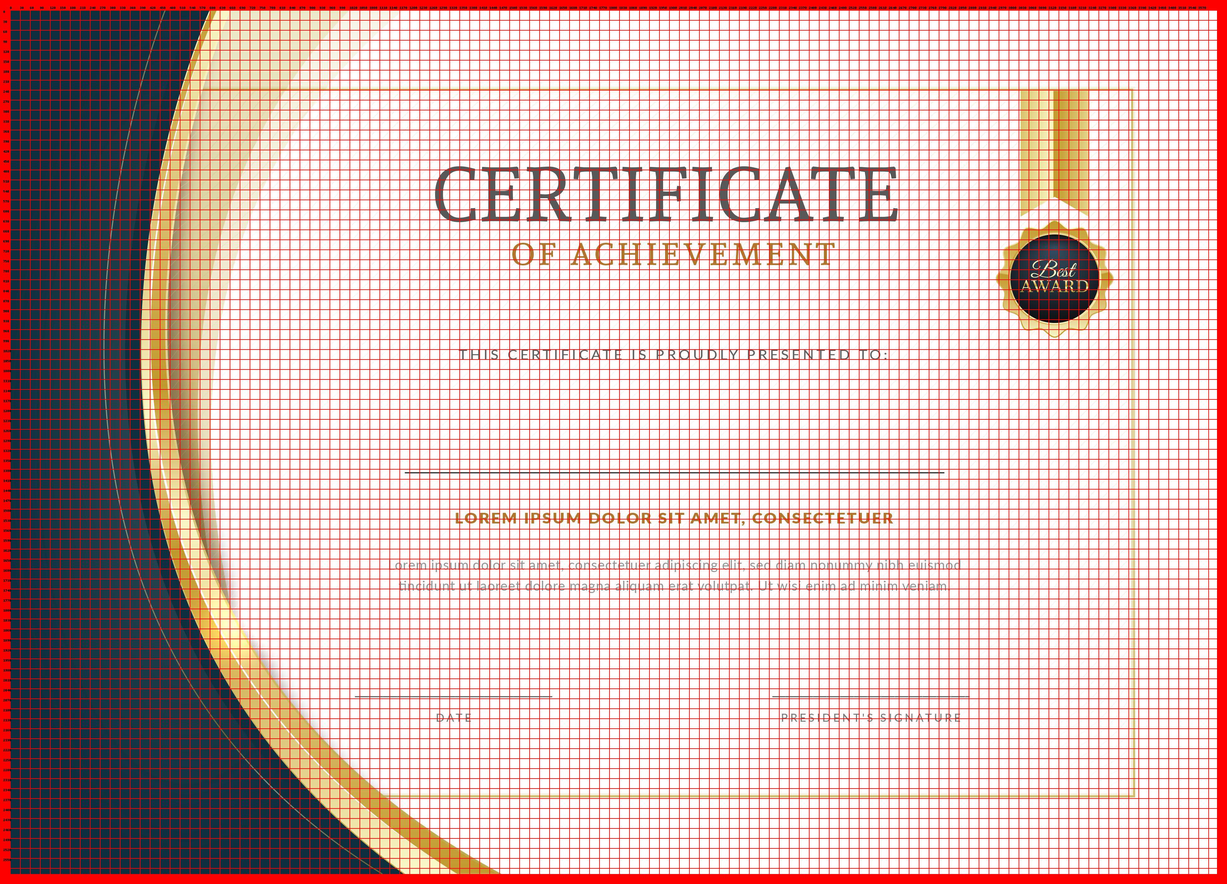
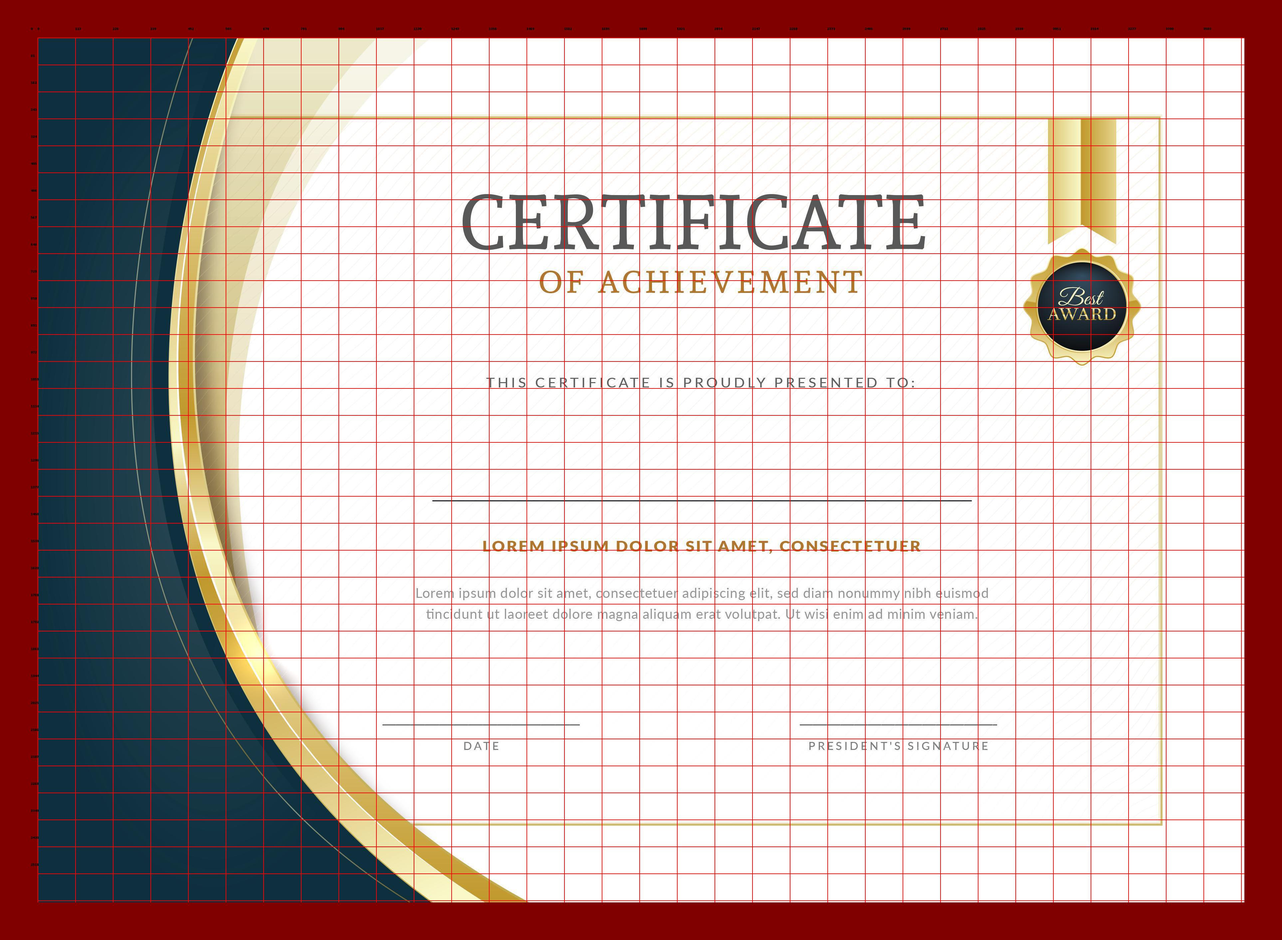
add showCoordinates

diff --git a/scripts/getCoordinates.py b/scripts/getCoordinates.py
@@ -1,0 +1,50 @@
+import cv2
+import sys
+
+def click_event(event, x, y, flags, params): 
+    # checking for left mouse clicks 
+    if event == cv2.EVENT_LBUTTONDOWN: 
+        # displaying the coordinates 
+        # on the Shell 
+        print(x, ' ', y) 
+
+        # displaying the coordinates 
+        # on the image window 
+        font = cv2.FONT_HERSHEY_SIMPLEX 
+        cv2.putText(img, str(x) + ',' + str(y), (x,y), font, 1, (255, 0, 0), 2) 
+        cv2.imshow('image', img) 
+
+    # checking for right mouse clicks      
+    if event==cv2.EVENT_RBUTTONDOWN: 
+        # displaying the coordinates 
+        # on the Shell 
+        print(x, ' ', y) 
+        # displaying the coordinates 
+        # on the image window 
+        font = cv2.FONT_HERSHEY_SIMPLEX 
+        b = img[y, x, 0] 
+        g = img[y, x, 1] 
+        r = img[y, x, 2] 
+        cv2.putText(img, str(b) + ',' + str(g) + ',' + str(r), (x,y), font, 1, (255, 255, 0), 2) 
+        cv2.imshow('image', img) 
+
+if __name__=="__main__": 
+    # reading the image 
+    certificateName = sys.argv[1]
+    certificateId = certificateName.split('.')[0]
+    path = '/Users/salroid/Documents/GitHub/Dynamic-Certificate-Generator/'
+    pathCertificate = path + 'certificates/' + certificateId + '.jpg'
+
+    img = cv2.imread(pathCertificate, 1) 
+    # displaying the image 
+    cv2.imshow('image', img); 
+    cv2.waitKey(0)
+    # setting mouse hadler for the image 
+    # and calling the click_event() function 
+    #cv2.setMouseCallback('image', click_event) 
+    # wait for a key to be pressed to exit 
+  
+    # close the window 
+    cv2.imshow('image', img); cv2.waitKey(0)
+    
+    cv2.waitKey(1)

diff --git a/scripts/plotLines.py b/scripts/plotLines.py
@@ -28,20 +28,22 @@ else:
 img = Image.open(finalCerticate)
 draw = ImageDraw.Draw(img)
 W, H = img.size
+boxWidth = int(W / 32)
+boxHeight = int(H / 32)
 
 # Plot Horizontal and Vertical lines
-for x in range(0, W, 30):
+for x in range(0, W, boxWidth):
   draw.line((x, 0, x, H), fill = "red", width = 2)
-for x in range(0, H, 30):
+for x in range(0, H, boxHeight):
   draw.line((0, x, W, x), fill = "red", width = 2)
 
 # Expand Image and plot numbers on XY axis
-img = ImageOps.expand(img, border = 30, fill = 128)
+img = ImageOps.expand(img, border = boxWidth, fill = 128)
 draw = ImageDraw.Draw(img)
 
-for x in range(30 , W, 30):
-    draw.text(xy=(x, 18),text='{}'.format(x - 30),fill=(0,0,0))
-for x in range(30 , H, 30):
-    draw.text(xy=(10, x),text='{}'.format(x - 30),fill=(0,0,0))
+for x in range(boxWidth , W, boxWidth):
+    draw.text(xy=(x, boxHeight),text='{}'.format(x - boxWidth),fill=(0,0,0))
+for x in range(boxHeight , H, boxHeight):
+    draw.text(xy=(boxWidth - 30, x),text='{}'.format(x - boxHeight),fill=(0,0,0))
 
 img.save('/Users/salroid/Documents/GitHub/Dynamic-Certificate-Generator/plotCertificates/plot_{}.jpg'.format(certificateId))

diff --git a/scripts/genConfigFile.py b/scripts/genConfigFile.py
@@ -13,18 +13,18 @@ data = {}
 data['properties'] = []
 for i in range(0, totalTextFields, 1):
     textfield = "text " + str(i+1)
-    identifier = raw_input("Enter unique Identifier for" + textfield + ": " )
-    x1, x2, y1, y2 = raw_input("Enter x1, x2, y1, y2 for " + textfield + ": ").split(" ")
-    fontName, fontSize = raw_input("Enter font name and font size for " + textfield + ": ").split(" ")
+    #identifier = raw_input("Enter unique Identifier for" + textfield + ": " )
+    #x1, x2, y1, y2 = raw_input("Enter x1, x2, y1, y2 for " + textfield + ": ").split(" ")
+    #fontName, fontSize = raw_input("Enter font name and font size for " + textfield + ": ").split(" ")
 
     data['properties'].append({
-    'name': identifier,
-    'x1': x1,
-    'y1' : y1,
-    'x2': x2,
-    'y2': y2,
-    'fontSize': fontSize,
-    'fontName' : fontName
+    'name': "",
+    'x1': "",
+    'y1' : "",
+    'x2': "",
+    'y2': "",
+    'fontSize': "",
+    'fontName' : ""
 })
 # create JSON object
 json_object = json.dumps(data, indent = 4, sort_keys=True) 
